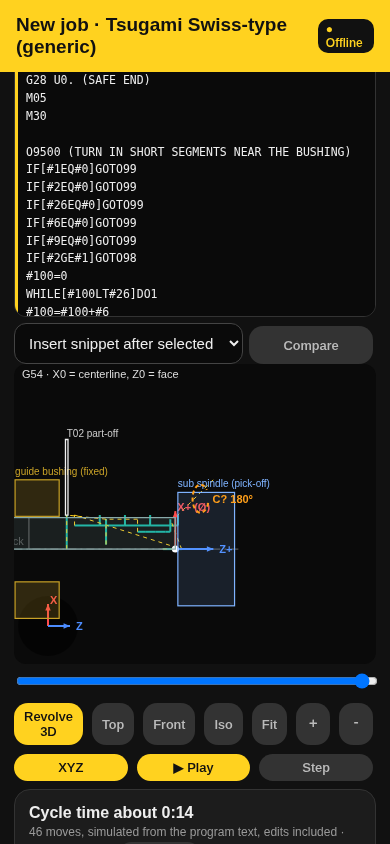
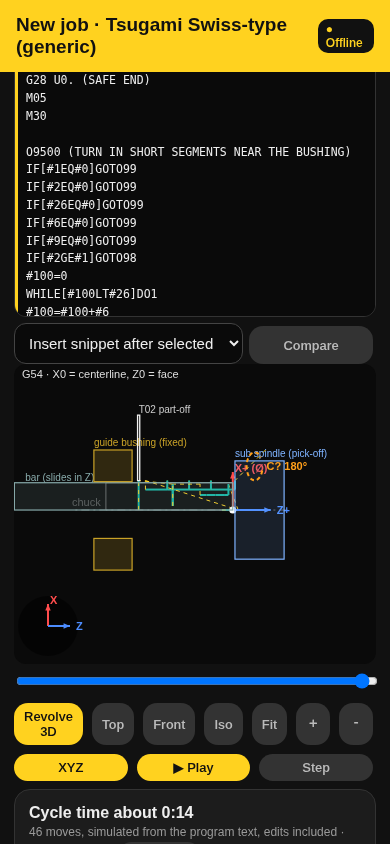
Round 14: Swiss Fit bounds include bushing, bar extension, sub spindle+labels; remove view-shift hack; shot 37

Changed region(s): [[0.0308, 0.4929, 0.8308, 0.7393], [0.0308, 0.6777, 0.1538, 0.7393], [0.3692, 0.4621, 0.4923, 0.4929]]

diff --git a/index.html b/index.html
@@ -694,7 +694,13 @@ const _checks11=checks;checks=function(j){const c=_checks11(j);if(j.op!='swiss')
  const L=t.split('\n'),pi=L.map((l,i)=>/PART OFF/.test(l)?i:-1).filter(i=>i>=0).pop(),mi=L.findIndex(l=>/^M30/.test(l));c.push(['Part-off is the last cut before M30',pi!=null&&pi>=0&&pi<mi&&!L.slice(pi+1,mi).some(l=>/^G0?1\b/.test(l))]);return c};
 // sim: bushing, gang tools, C angle
 function swTool(l){const L=txt();const e=L.findIndex(x=>/^M30/.test(x));if(e>=0&&l>e)return 1;for(let i=l;i>=0;i--){const m=(L[i]||'').match(/^T(\d\d)/);if(m)return +m[1]}return 1}
-const _draw11=draw;draw=function(){if(!J||!J.swiss||!ctx)return _draw11();const M0=J.M||[],m0=M0[Math.min(view.n,M0.length)-1],sh=(!view.rev&&m0)?m0.b[2]+1.0:0,fs0=view.fs;if(!view.rev)view.fs=fs0*0.7;view.fz0+=sh;try{_draw11()}finally{view.fz0-=sh}if(!view.rev)view.fz0+=sh;try{sw2()}finally{if(!view.rev)view.fz0-=sh;view.fs=fs0}};
+const _draw11=draw;draw=function(){if(!J||!J.swiss||!ctx)return _draw11();const M0=J.M||[],m0=M0[Math.min(view.n,M0.length)-1],sh=(!view.rev&&m0)?m0.b[2]:0;view.fz0+=sh;try{_draw11()}finally{view.fz0-=sh}if(!view.rev)view.fz0+=sh;try{sw2()}finally{if(!view.rev)view.fz0-=sh}};
+// Swiss Fit: bounds in machine frame (bar slides; machine z = bar z - tool z)
+const _vw13=vw;vw=function(k){_vw13(k);if(!J||!J.swiss||view.rev||!cv)return;const M=J.M||[],R=J.lb.R;let ext=0;M.forEach(m=>ext=Math.max(ext,-m.b[2]));
+ const sub=sv('Sub spindle'),hasSub=sub&&!/^no|^none|^0/i.test(String(sub.v));
+ let z0=-0.45-0.6,z1=Math.max(0.6,ext+0.1);if(hasSub)z1=Math.max(z1,0.02+ext+0.45);
+ const W=cv.clientWidth-20,lblIn=0.75;// room for tool / sub spindle labels
+ let r1=R+0.95,r0=-R-0.3;view.fs=Math.min(W/(z1-z0+lblIn),270/(r1-r0));view.fz0=z0;view.fz=z1;view.fr=r1;view.fx=10;view.px=0;view.py=0;draw()};
 function sw2(){const M=J.M||[],n=Math.min(view.n,M.length),m=M[n-1],t=m?m.b:[J.lb.R+0.3,0,0.3],R=J.lb.R,flat=!view.rev;
  const lines=txt();let ca=0;if(m)for(let i=m.l;i>=0;i--){const q=(lines[i]||'').toUpperCase().match(/\bC(-?[\d.]+)/);if(q){ca=+q[1];break}}
  const zb=Math.min(0,t[2])-0.06;// bushing fixed in machine, just behind the cut; bar slides

diff --git a/test/diag.html b/test/diag.html
@@ -1,0 +1,2 @@
+<pre id="o"></pre><iframe id="f" src="shots7.html?k=swpart&v=17" style="width:390px;height:844px"></iframe><script>
+setTimeout(()=>{try{const w=f.contentWindow.document.querySelector('iframe').contentWindow;const r=[];const oP=w.P;let fsSeen=new Set();w.P=function(p){fsSeen.add(w.eval('view.fs'));return oP(p)};r.push('fs outside draw '+w.eval('view.fs')+' swiss '+w.eval('J.swiss')+' rev '+w.eval('view.rev'));w.draw();r.unshift('fs values seen in P: '+[...fsSeen].join(','),'J.swiss='+w.eval('J.swiss'),'view.rev='+w.eval('view.rev'),'draw src start: '+String(w.draw).slice(0,60));o.textContent=r.join("\n")}catch(e){o.textContent="ERR "+e.message}},2500)</script>

diff --git a/test/ui-test5.html b/test/ui-test5.html
@@ -1,4 +1,4 @@
-<!doctype html><body><pre id="o"></pre><iframe id="f" src="../index.html?v=16" style="width:390px;height:844px"></iframe><script>
+<!doctype html><body><pre id="o"></pre><iframe id="f" src="../index.html?v=17" style="width:390px;height:844px"></iframe><script>
 const out=[],log=(n,ok)=>out.push((ok?'PASS ':'FAIL ')+n);let first=1;
 f.onload=()=>{const w=f.contentWindow;if(first){first=0;w.localStorage.clear();w.location.reload();return}
  setTimeout(async()=>{const d=w.document,E=x=>w.eval(x),cl=()=>d.querySelector('#cl').textContent;w.confirm=()=>true;try{

diff --git a/test/shots7.html b/test/shots7.html
@@ -1,4 +1,4 @@
-<!doctype html><body style="margin:0;background:#111"><iframe id="f" src="../index.html?v=16" style="width:390px;height:1500px;border:0"></iframe><script>
+<!doctype html><body style="margin:0;background:#111"><iframe id="f" src="../index.html?v=17" style="width:390px;height:1500px;border:0"></iframe><script>
 let first=1;const job=new URLSearchParams(location.search);
 f.onload=()=>{const w=f.contentWindow;if(first){first=0;w.localStorage.clear();w.location.reload();return}
  setTimeout(()=>{const E=x=>w.eval(x),k=job.get('k');w.confirm=()=>true;

diff --git a/test/ui-test6.html b/test/ui-test6.html
@@ -1,4 +1,4 @@
-<!doctype html><body><pre id="o"></pre><iframe id="f" src="../index.html?v=16" style="width:390px;height:844px"></iframe><script>
+<!doctype html><body><pre id="o"></pre><iframe id="f" src="../index.html?v=17" style="width:390px;height:844px"></iframe><script>
 const out=[],log=(n,ok)=>out.push((ok?'PASS ':'FAIL ')+n);let first=1;
 f.onload=()=>{const w=f.contentWindow;if(first){first=0;w.localStorage.clear();w.location.reload();return}
  setTimeout(async()=>{const d=w.document,E=x=>w.eval(x);w.confirm=()=>true;try{

diff --git a/test/ui-test4.html b/test/ui-test4.html
@@ -1,4 +1,4 @@
-<!doctype html><body><pre id="o"></pre><iframe id="f" src="../index.html?v=16" style="width:390px;height:844px"></iframe><script>
+<!doctype html><body><pre id="o"></pre><iframe id="f" src="../index.html?v=17" style="width:390px;height:844px"></iframe><script>
 const out=[],log=(n,ok)=>out.push((ok?'PASS ':'FAIL ')+n);let first=1;
 f.onload=()=>{const w=f.contentWindow;if(first){first=0;w.localStorage.clear();w.location.reload();return}
  setTimeout(()=>{const d=w.document,E=x=>w.eval(x);w.confirm=()=>true;try{

diff --git a/test/ui-test8.html b/test/ui-test8.html
@@ -1,4 +1,4 @@
-<!doctype html><body><pre id="o"></pre><iframe id="f" src="../index.html?v=16" style="width:390px;height:844px"></iframe><script>
+<!doctype html><body><pre id="o"></pre><iframe id="f" src="../index.html?v=17" style="width:390px;height:844px"></iframe><script>
 const out=[],log=(n,ok)=>out.push((ok?'PASS ':'FAIL ')+n);let first=1;
 f.onload=()=>{const w=f.contentWindow;if(first){first=0;w.localStorage.clear();w.location.reload();return}
  setTimeout(()=>{const d=w.document,E=x=>w.eval(x);w.confirm=()=>true;try{

diff --git a/test/ui-test.html b/test/ui-test.html
@@ -1,4 +1,4 @@
-<!doctype html><body style="background:#fff"><pre id="o"></pre><iframe id="f" src="../index.html?v=16" style="width:390px;height:844px"></iframe><script>
+<!doctype html><body style="background:#fff"><pre id="o"></pre><iframe id="f" src="../index.html?v=17" style="width:390px;height:844px"></iframe><script>
 const out=[],log=(n,ok)=>out.push((ok?'PASS ':'FAIL ')+n);
 f.onload=()=>{const w=f.contentWindow,d=w.document;try{
  if(!window.r){window.r=1;w.localStorage.clear();w.location.reload();return}}catch(e){}

diff --git a/test/ui-test10.html b/test/ui-test10.html
@@ -1,4 +1,4 @@
-<!doctype html><body><pre id="o"></pre><iframe id="f" src="../index.html?v=16" style="width:390px;height:844px"></iframe><script>
+<!doctype html><body><pre id="o"></pre><iframe id="f" src="../index.html?v=17" style="width:390px;height:844px"></iframe><script>
 const out=[],log=(n,ok)=>out.push((ok?'PASS ':'FAIL ')+n);let first=1;
 f.onload=()=>{const w=f.contentWindow;if(first){first=0;w.localStorage.clear();w.location.reload();return}
  setTimeout(()=>{const d=w.document,E=x=>w.eval(x);try{

diff --git a/test/ui-test9.html b/test/ui-test9.html
@@ -1,4 +1,4 @@
-<!doctype html><body><pre id="o"></pre><iframe id="f" src="../index.html?v=16" style="width:390px;height:844px"></iframe><script>
+<!doctype html><body><pre id="o"></pre><iframe id="f" src="../index.html?v=17" style="width:390px;height:844px"></iframe><script>
 const out=[],log=(n,ok)=>out.push((ok?'PASS ':'FAIL ')+n);let first=1;
 f.onload=()=>{const w=f.contentWindow;if(first){first=0;w.localStorage.clear();w.location.reload();return}
  setTimeout(()=>{const d=w.document,E=x=>w.eval(x);try{
